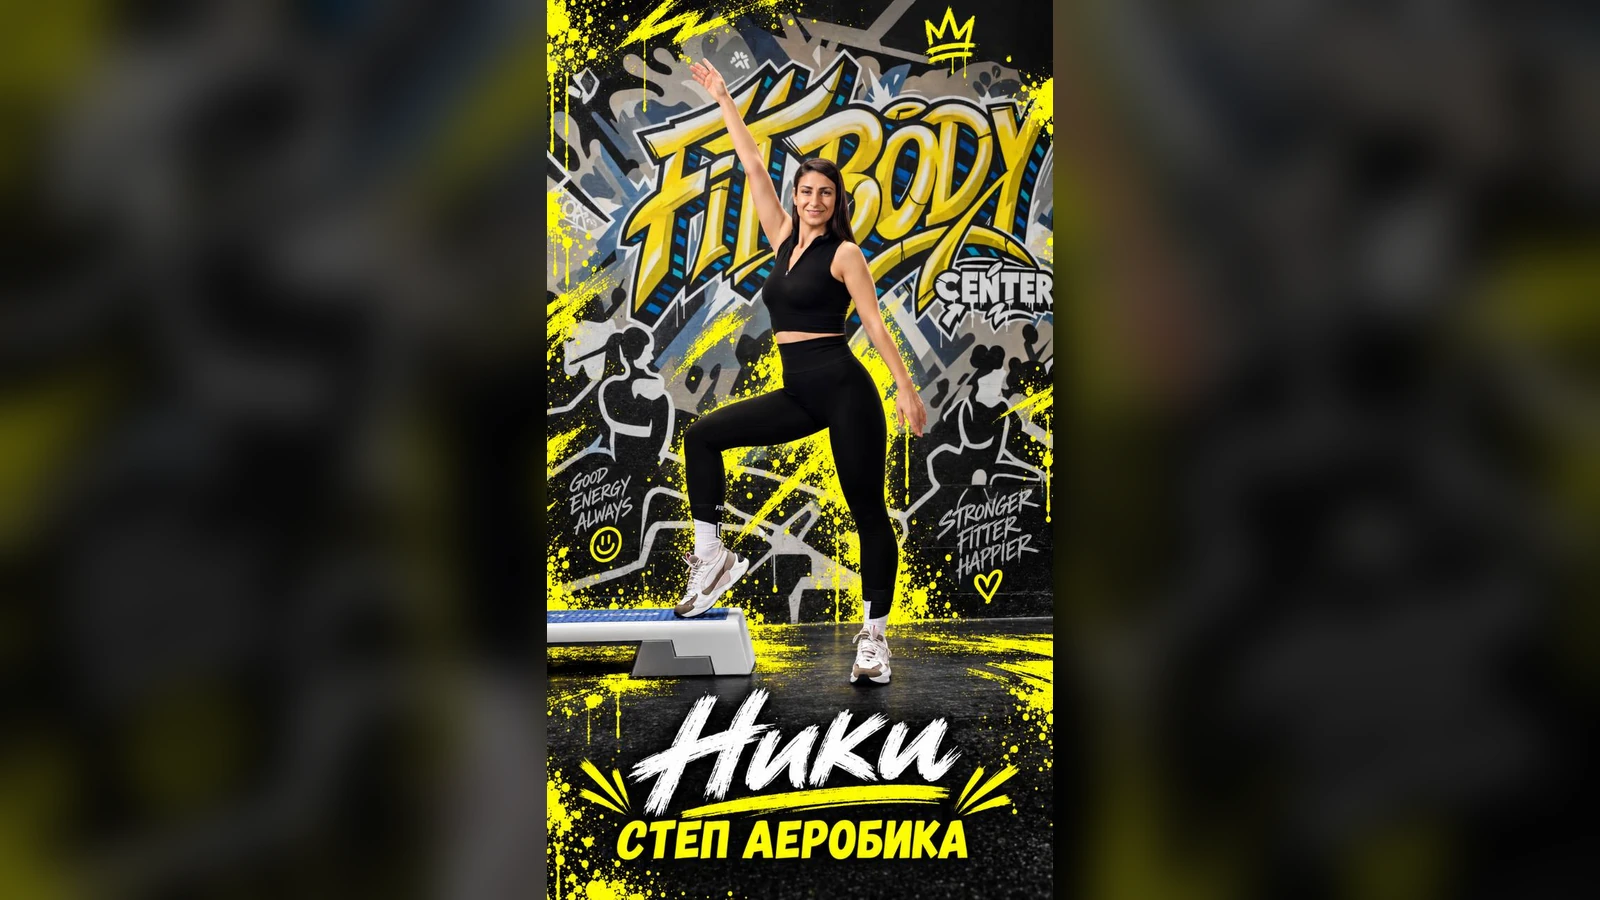
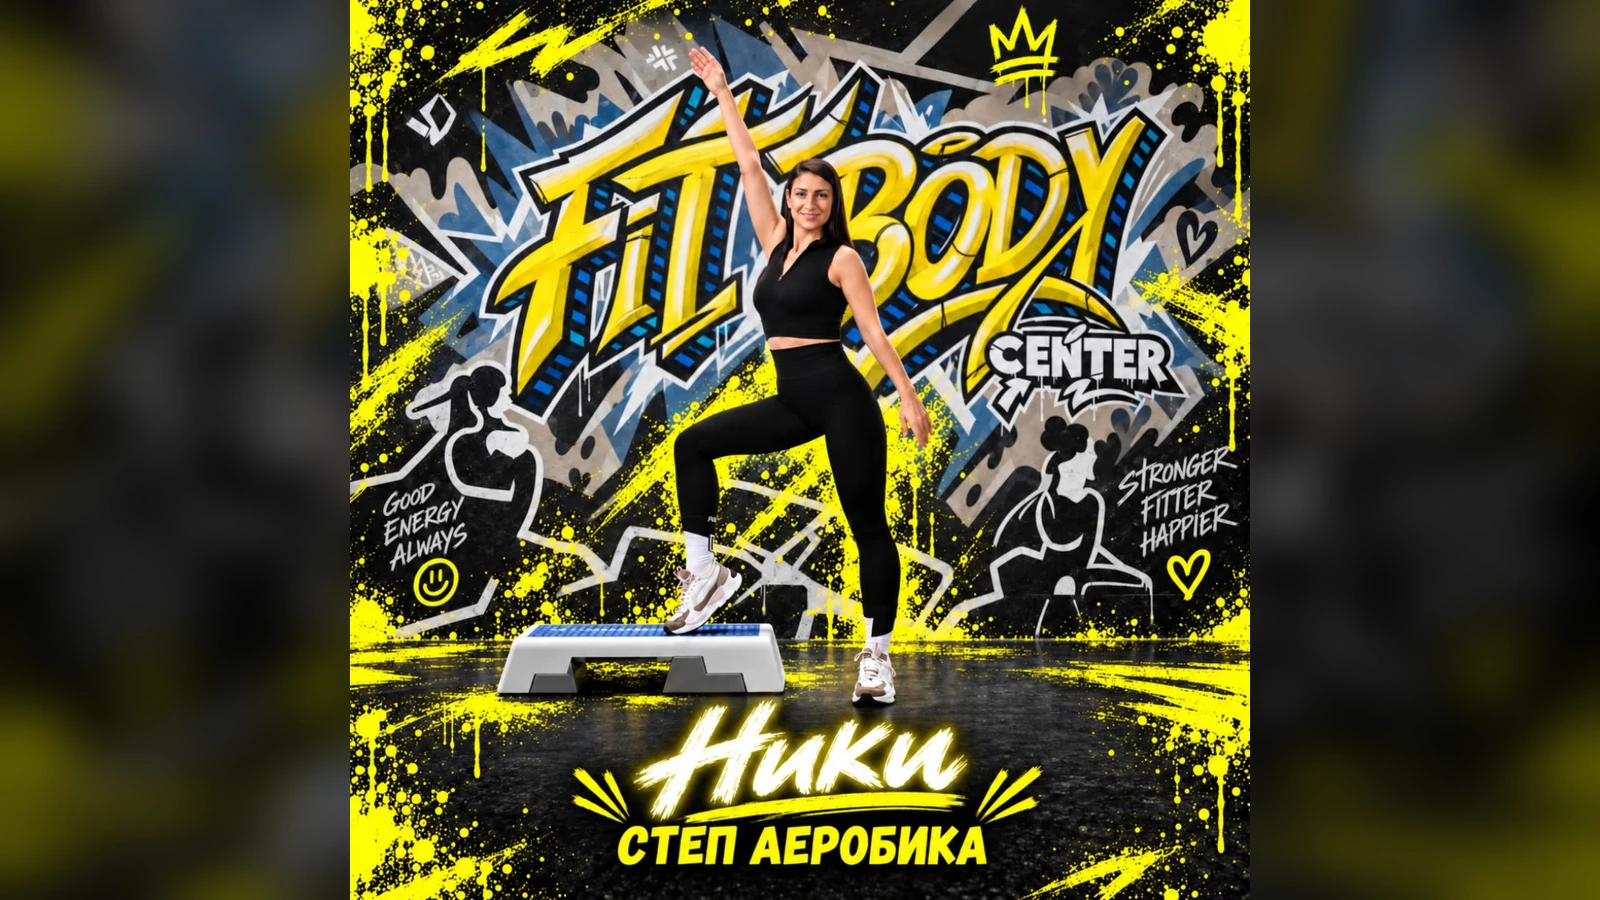
Update square Zumba and Step posters

diff --git a/src/PublicApp.tsx b/src/PublicApp.tsx
@@ -893,7 +893,7 @@ function TrainingIcon({
       aria-hidden="true"
     >
       <img
-        src={`${baseUrl}training-icons/${icon}?v=posters-20260906-3`}
+        src={`${baseUrl}training-icons/${icon}?v=posters-20260906-4`}
         alt=""
         loading={compact ? "lazy" : "eager"}
       />
@@ -921,14 +921,14 @@ function TrainingPageHero({
     >
       <div className="training-page-photo">
         <picture>
-          {["pilates", "tae-bo", "kids-conditioning", "body-training"].includes(page.slug) && (
+          {["pilates", "zumba", "tae-bo", "step-aerobics", "kids-conditioning", "body-training"].includes(page.slug) && (
             <source
               media="(max-width: 560px)"
-              srcSet={`${baseUrl}training-icons/${page.icon}?v=posters-20260906-3`}
+              srcSet={`${baseUrl}training-icons/${page.icon}?v=posters-20260906-4`}
             />
           )}
           <img
-            src={`${baseUrl}training-heroes/${page.hero}?v=posters-20260906-3`}
+            src={`${baseUrl}training-heroes/${page.hero}?v=posters-20260906-4`}
             alt={`${page.title} във Fit Body Center`}
             fetchPriority="high"
           />
@@ -977,7 +977,7 @@ function TrainingDirectory({ current }: { current?: TrainingPage }) {
           >
             <div>
               <img
-                src={`${baseUrl}training-icons/${page.icon}?v=posters-20260906-3`}
+                src={`${baseUrl}training-icons/${page.icon}?v=posters-20260906-4`}
                 alt=""
                 loading="lazy"
               />

diff --git a/src/styles.css b/src/styles.css
@@ -687,7 +687,7 @@ body.modal-open{overflow:hidden;overscroll-behavior:none}.live-admin{max-width:8
 @media(max-width:560px){
   .poster-training-hero{display:flex;min-height:0;padding:0;overflow:hidden}
   .poster-training-hero .training-page-photo{position:relative;width:100%;height:auto;aspect-ratio:9/16;flex:0 0 auto}
-  .poster-training-hero:is([data-training="pilates"],[data-training="tae-bo"],[data-training="kids-conditioning"],[data-training="body-training"]) .training-page-photo{aspect-ratio:1}
+  .poster-training-hero .training-page-photo{aspect-ratio:1}
   .poster-training-hero[data-training] .training-page-photo img{object-fit:cover;transform:none}
   .poster-training-hero:after{display:none}
   .training-directory-grid>a:is([data-training="pilates"],[data-training="zumba"],[data-training="tae-bo"],[data-training="step-aerobics"],[data-training="kids-conditioning"],[data-training="body-training"])>div{padding:0}

diff --git a/src/AdminApp.tsx b/src/AdminApp.tsx
@@ -577,7 +577,7 @@ function TrainingLinks() {
           return (
             <article key={page.slug} data-training={page.slug}>
               <div className="training-link-art">
-                <img src={`${baseUrl}training-icons/${page.icon}?v=posters-20260906-3`} alt="" />
+                <img src={`${baseUrl}training-icons/${page.icon}?v=posters-20260906-4`} alt="" />
               </div>
               <div className="training-link-details">
                 <strong>{page.title}</strong>
